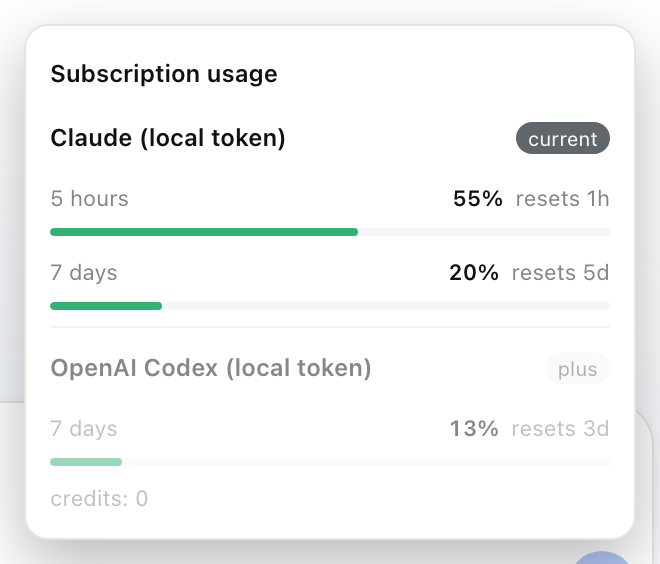
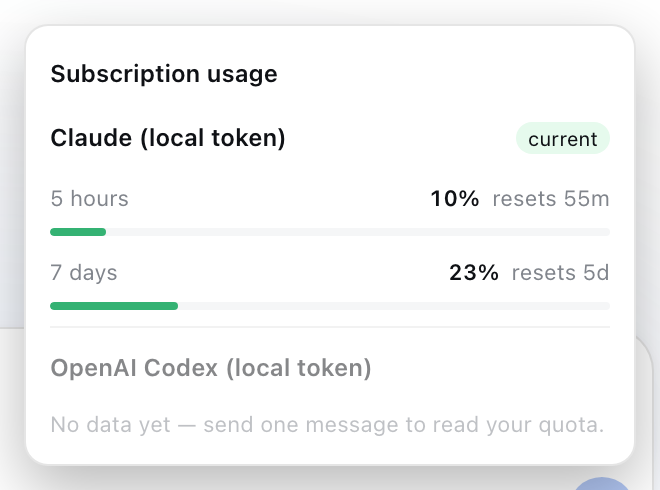
fix: tint the current-provider badge green instead of painting it dark
1.3.1 made the badge legible by borrowing DSH's contrast-surface pairing, but
that renders a heavy dark pill for what is only a quiet "which provider am I
on" marker, and it still read as a black blob at a glance.

Tint it with the success token the usage bars already speak in
(`--dsw-alias-state-success-tertiary`) and keep normal primary label text on
top. Measured in a real browser: contrast goes from 2.09:1 (the saturated
green-on-green first attempt) to 17.33:1, and both tokens flip with the theme,
so the dark theme stays legible too.

Screenshot refreshed to match.

Release 1.3.2.

diff --git a/lib/client.js b/lib/client.js
@@ -24,7 +24,7 @@ window.__ModuleLoader__.load({
 			".ltk_prov{padding-top:8px;margin-top:8px;border-top:1px solid var(--dsw-alias-border-l2)}" +
 			".ltk_prov:first-of-type{padding-top:0;margin-top:0;border-top:none}" +
 			".ltk_provDim{opacity:.5}" +
-			".ltk_cur{padding:0 6px;border-radius:999px;font-size:10px;line-height:16px;background:var(--dsw-alias-button-contrast-fill,var(--dsw-alias-bg-module-platform));color:var(--dsw-alias-label-primary-inverted)}" +
+			".ltk_cur{padding:0 6px;border-radius:999px;font-size:10px;line-height:16px;background:var(--dsw-alias-state-success-tertiary,var(--dsw-alias-bg-module-platform));color:var(--dsw-alias-label-primary)}" +
 			".ltk_provHead{display:flex;align-items:center;gap:6px;margin-bottom:6px}" +
 			".ltk_provName{flex:1;font-size:12px;font-weight:600;color:var(--dsw-alias-label-primary)}" +
 			".ltk_plan{padding:0 6px;border-radius:999px;font-size:10px;line-height:16px;background:var(--dsw-alias-bg-module-platform);color:var(--dsw-alias-label-secondary)}" +
